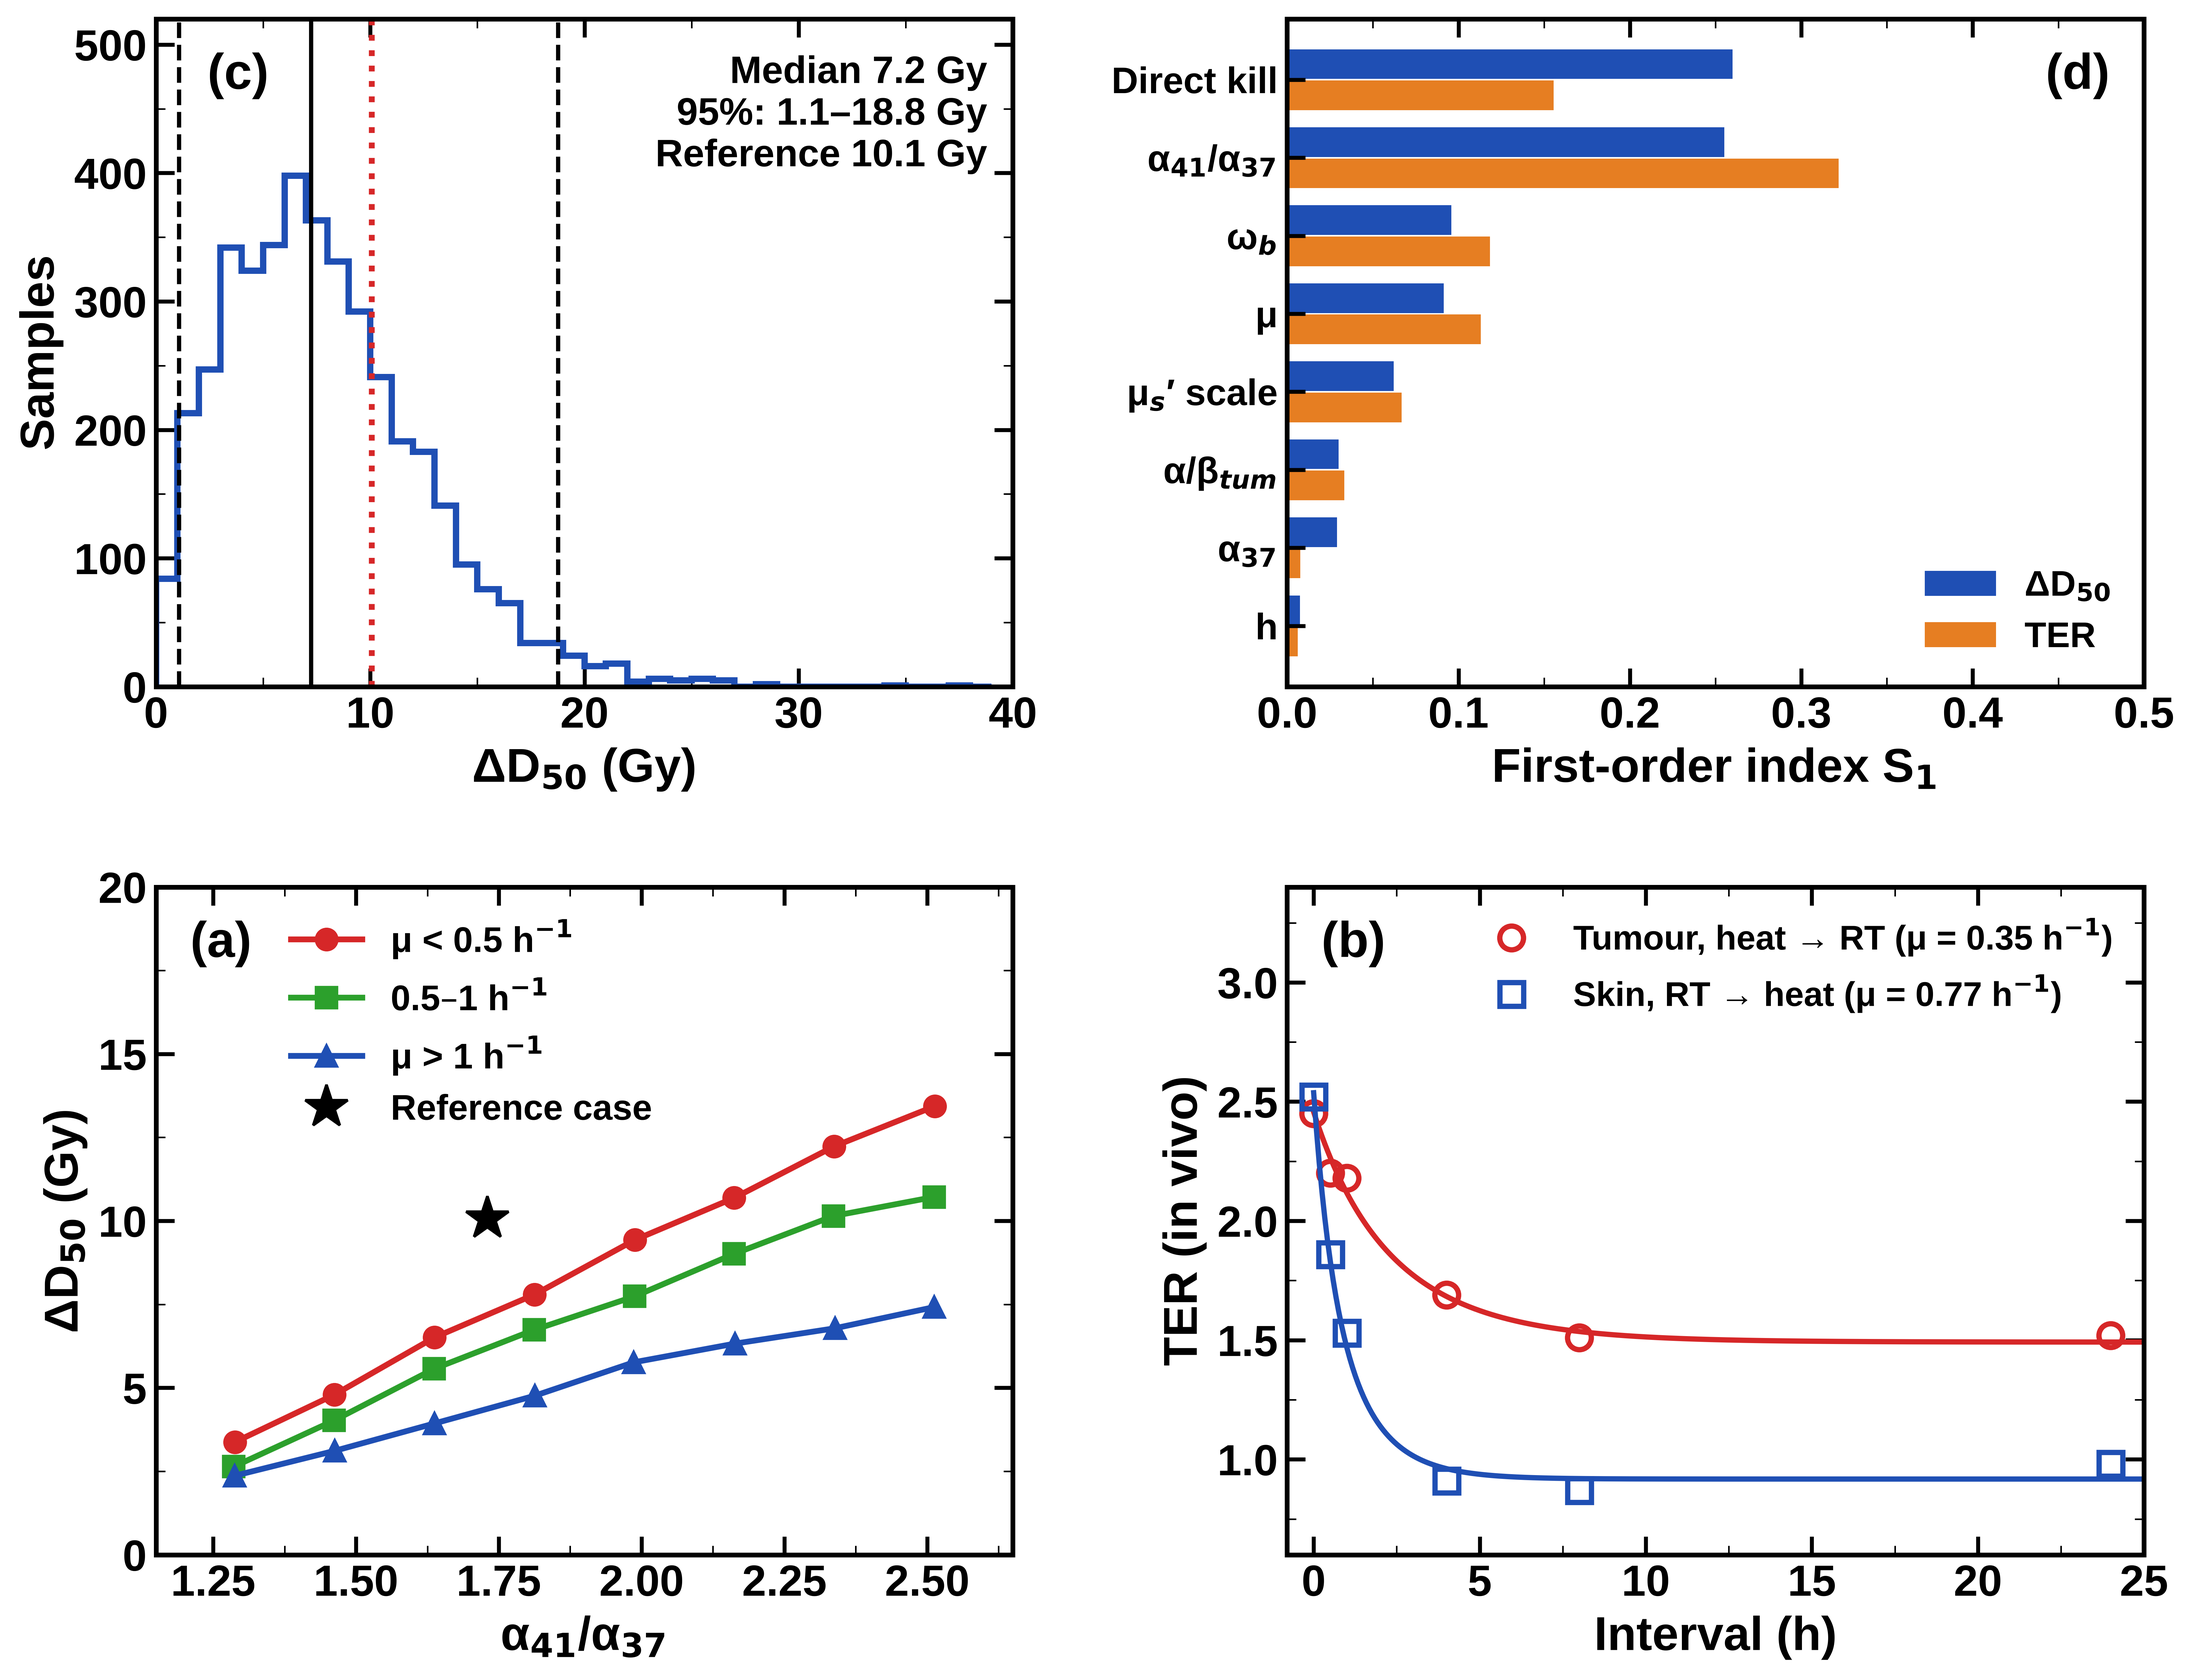
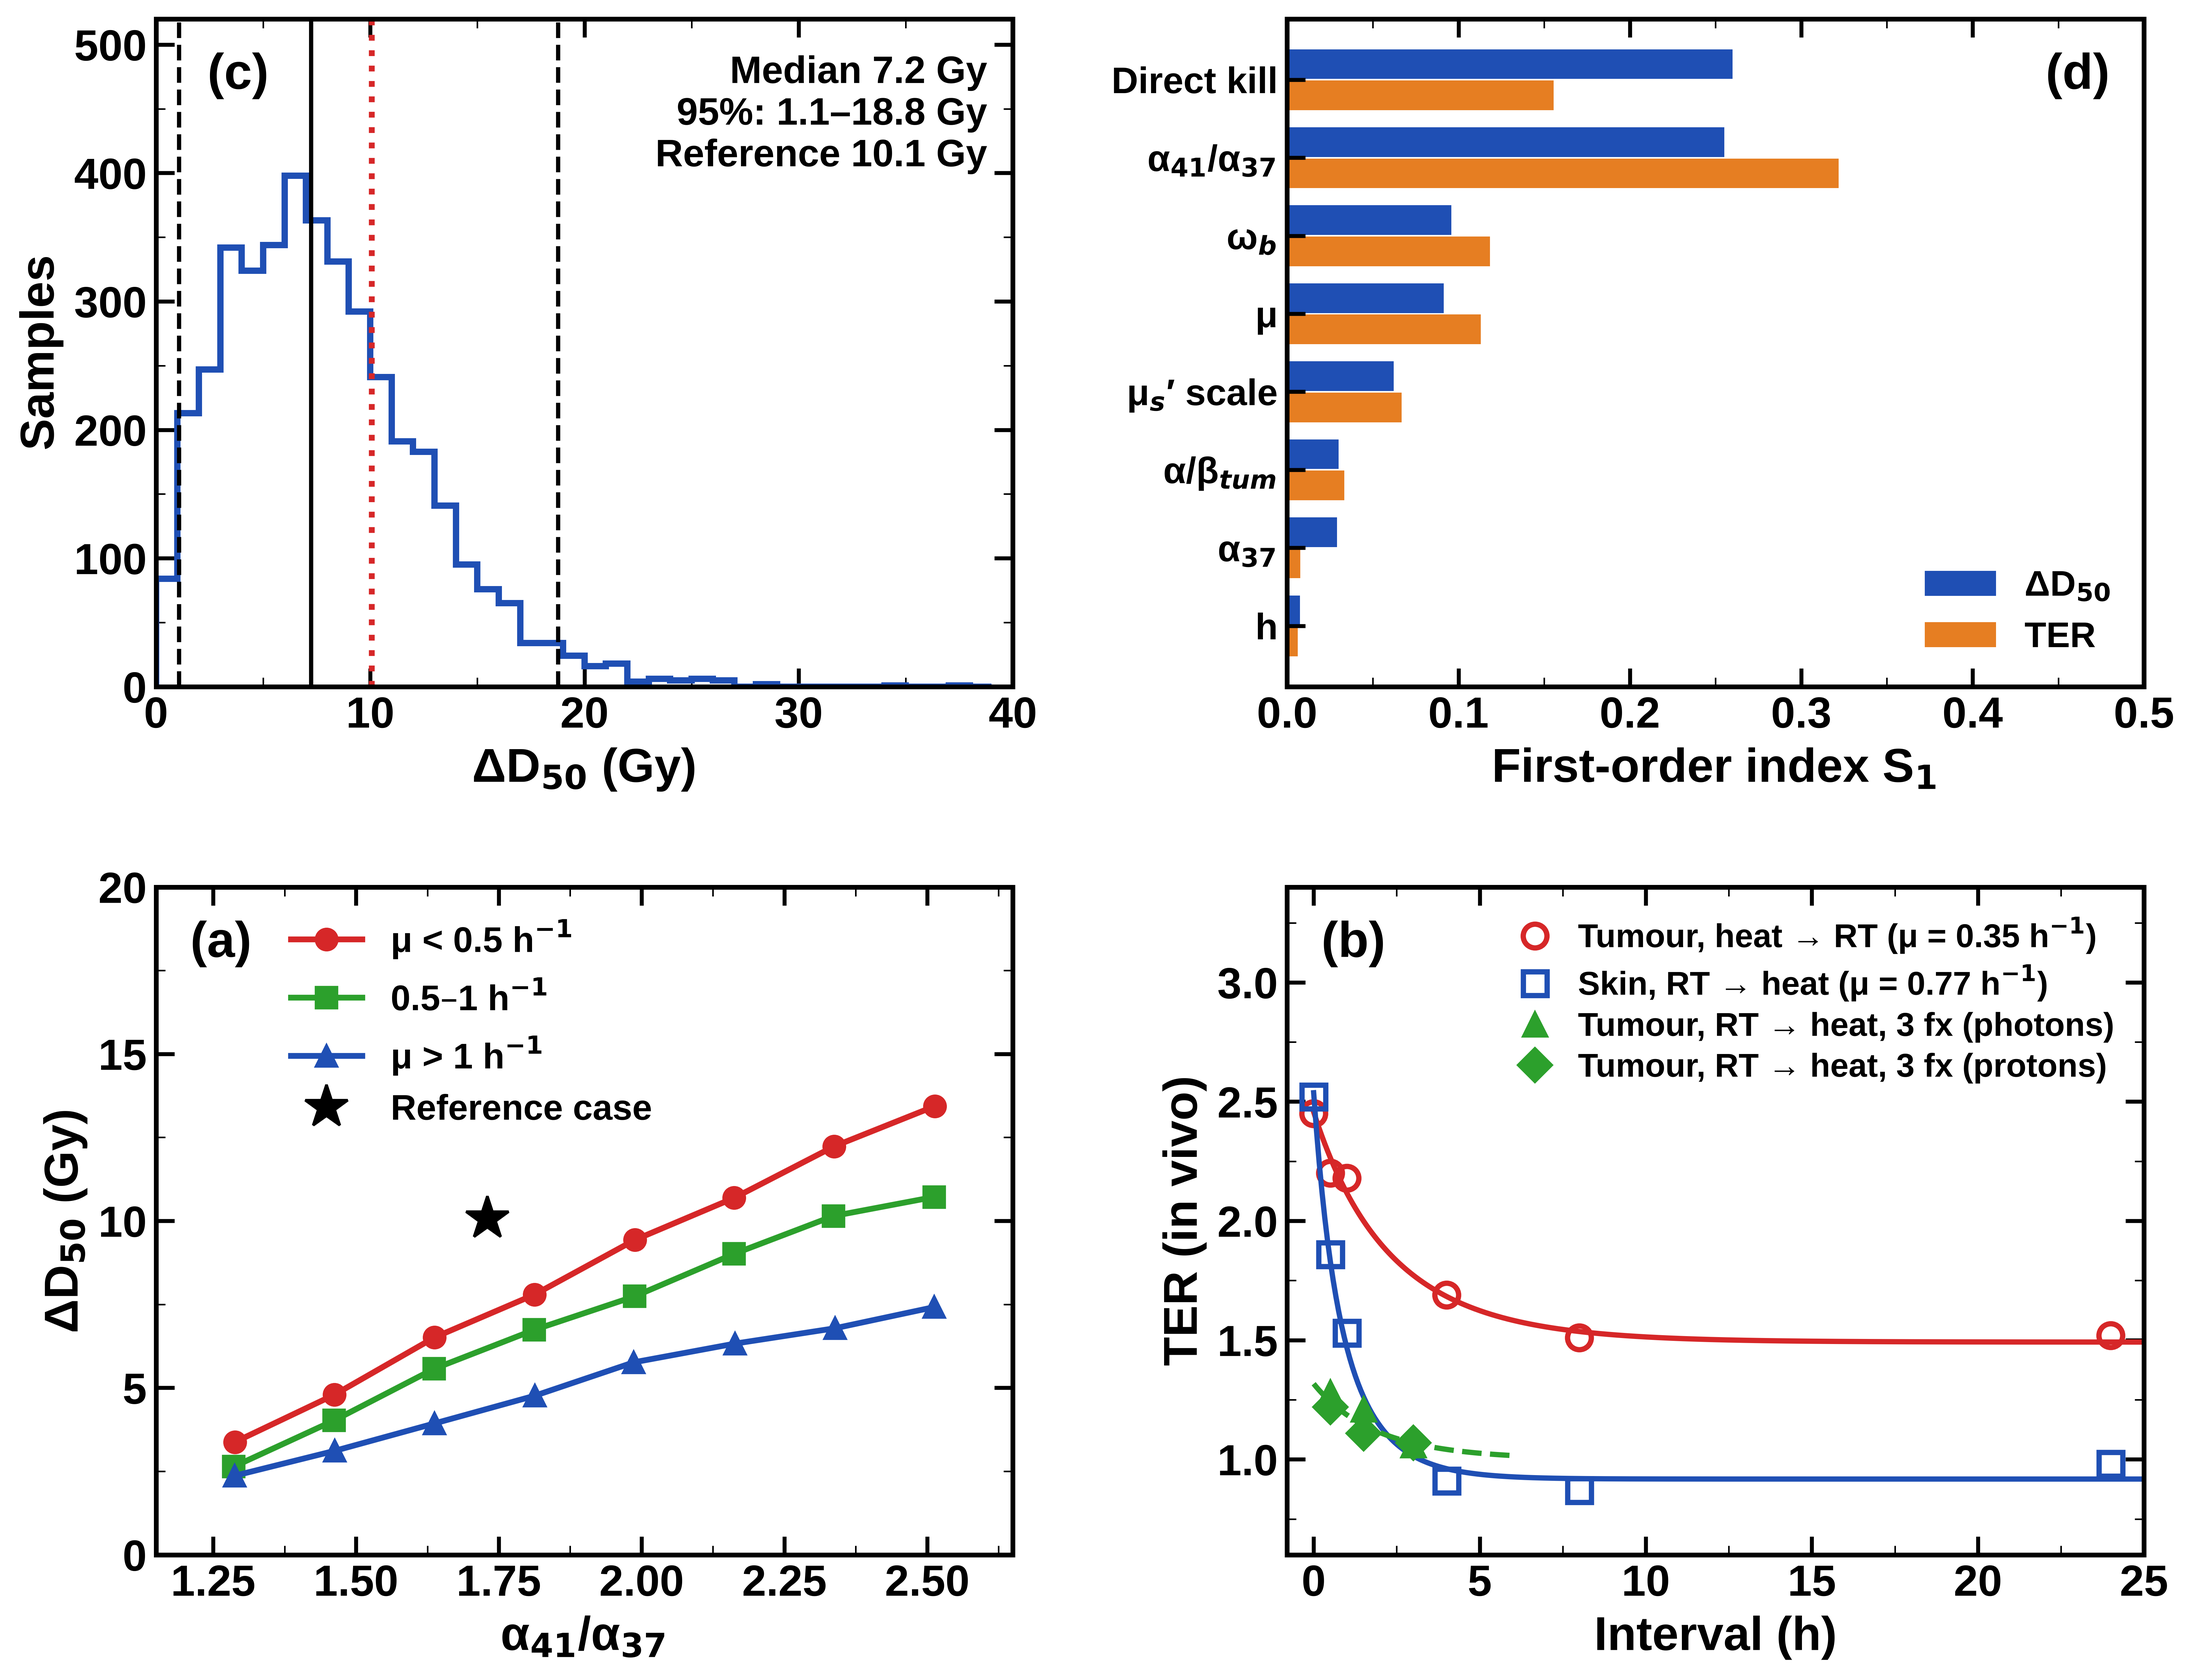
Add second in vivo interval test (Folefac et al. 2025)
Claude-Session: https://claude.ai/code/session_01LN5mwn6z6Cfece1zrEJxz4

Changed region(s): [[0.6862, 0.5289, 0.9669, 0.6534], [0.5926, 0.809, 0.655, 0.8712]]

diff --git a/src/bench_overgaard.py b/src/bench_overgaard.py
@@ -1,4 +1,4 @@
-"""In vivo test of the decay of thermal radiosensitisation with the heat-radiation interval.
+"""In vivo tests of the decay of thermal radiosensitisation with the heat-radiation interval.
 Data: Overgaard, Int J Radiat Oncol Biol Phys 6 (1980) 1507, Table 2 (C3H mammary carcinoma and overlying skin,
 42.5 C for 60 min, single doses, TER from TCD50 / DD50).  In the extended LQ model ln(TER) - ln(TER_inf) is
 proportional to exp(-mu t) when one LQ term dominates, so ln TER(t) = ln TER_inf + K exp(-mu t) is fitted by
@@ -27,4 +27,18 @@ for a, b in ((0.5, 1.0), (mt, 1.0), (0.5, mn), (mt, mn), (mt, mn2)):
     r = gsa.run(dict(gsa.REF, mu=a, mu_n=b)); key = f"mu={a:.2f}, mu_n={b:.2f}"
     out["reference_with_in_vivo_mu"][key] = {q: r[q] for q in ("TER", "TER_n", "TGF", "dD50")}
     print(key, {q: round(r[q], 3) for q in ("TER", "TER_n", "TGF", "dD50")})
+pass  # saved at the end
+
+# ---- second in vivo data set: Folefac et al., Int J Hyperthermia 42 (2025) 2545400, Tables 1-2
+# C3H mammary carcinoma / foot skin, 3 fractions, one 60-min heating 0.5, 1.5 or 3 h after the last fraction
+def se(lo, hi): return np.log(hi / lo) / 3.92
+tf = np.array([0.5, 1.5, 3.0])
+FX = {"photons": [(1.28, 0.87, 1.90), (1.21, 0.85, 1.72), (1.06, 0.74, 1.51)], "protons": [(1.22, 0.91, 1.63), (1.11, 0.84, 1.47), (1.07, 0.78, 1.48)]}
+y = np.log([v[0] for k in FX for v in FX[k]]); s = np.array([se(v[1], v[2]) for k in FX for v in FX[k]]); tt = np.concatenate([tf, tf])
+po, pc = curve_fit(lambda x, K, mu: K * np.exp(-mu * x), tt, y, p0=[0.3, 0.5], sigma=s, absolute_sigma=True, bounds=([0, 0.01], [2, 10]))
+out["folefac_tumour_41.5"] = dict(K=po[0], mu=po[1], mu_se=float(np.sqrt(pc[1, 1])), t=tf.tolist(), TER=FX)
+sk = np.log([1.23, 1.03]); ss = [se(1.13, 1.32), se(0.96, 1.10)]
+rng = np.random.default_rng(0); a = rng.normal(sk[0], ss[0], 20000); b = rng.normal(sk[1], ss[1], 20000); ok = (a > 0) & (b > 0)
+m = np.log(a[ok] / b[ok]); out["folefac_skin_42.5"] = dict(mu=float(np.log(sk[0] / sk[1])), mu_p16=float(np.percentile(m, 16)), mu_p84=float(np.percentile(m, 84)))
+print("Folefac tumour 41.5 C: mu = %.2f +/- %.2f 1/h; skin 42.5 C: mu = %.2f (68%%: %.2f-%.2f)" % (po[1], np.sqrt(pc[1, 1]), out["folefac_skin_42.5"]["mu"], out["folefac_skin_42.5"]["mu_p16"], out["folefac_skin_42.5"]["mu_p84"]))
 json.dump(out, open("../data/bench_overgaard.json", "w"), indent=1, default=float)

diff --git a/src/fig_gsa.py b/src/fig_gsa.py
@@ -24,8 +24,12 @@ bo = json.load(open("../data/bench_overgaard.json"))["fits"]; tt = np.linspace(0
 for k, col, mk, lb in (("tumour, heat before RT", RED, "o", "Tumour, heat → RT"), ("skin, RT before heat", BLUE, "s", "Skin, RT → heat")):
     q = bo[k]; b_ax.plot(q["t"], q["TER"], mk, color=col, ms=9, mfc="none", mew=2, label=lb + f" (μ = {q['mu']:.2f} h$^{{-1}}$)")
     b_ax.plot(tt, np.exp(np.log(q["TER_inf"]) + q["K"] * np.exp(-q["mu"] * tt)), "-", color=col, lw=2.0)
+fo = json.load(open("../data/bench_overgaard.json"))["folefac_tumour_41.5"]
+for k, mk in (("photons", "^"), ("protons", "D")):
+    b_ax.plot(fo["t"], [v[0] for v in fo["TER"][k]], mk, color=GREEN, ms=9, label=f"Tumour, RT → heat, 3 fx ({k})")
+b_ax.plot(tt[tt <= 6], np.exp(fo["K"] * np.exp(-fo["mu"] * tt[tt <= 6])), "--", color=GREEN, lw=2.0)
 b_ax.set_xlabel("Interval (h)"); b_ax.set_ylabel("TER (in vivo)"); b_ax.set_xlim(-0.8, 25); b_ax.set_ylim(0.6, 3.4)
-b_ax.legend(loc="upper right", fontsize=13); lab(b_ax, "(b)", x=0.04, y=0.95)
+b_ax.legend(loc="upper right", fontsize=12.5, handletextpad=0.3, labelspacing=0.3); lab(b_ax, "(b)", x=0.04, y=0.95)
 b_ax.xaxis.set_minor_locator(AutoMinorLocator(2))
 # (c) distribution of the dose shift
 v = df.dD50.values; p = np.percentile(v, [2.5, 50, 97.5])
